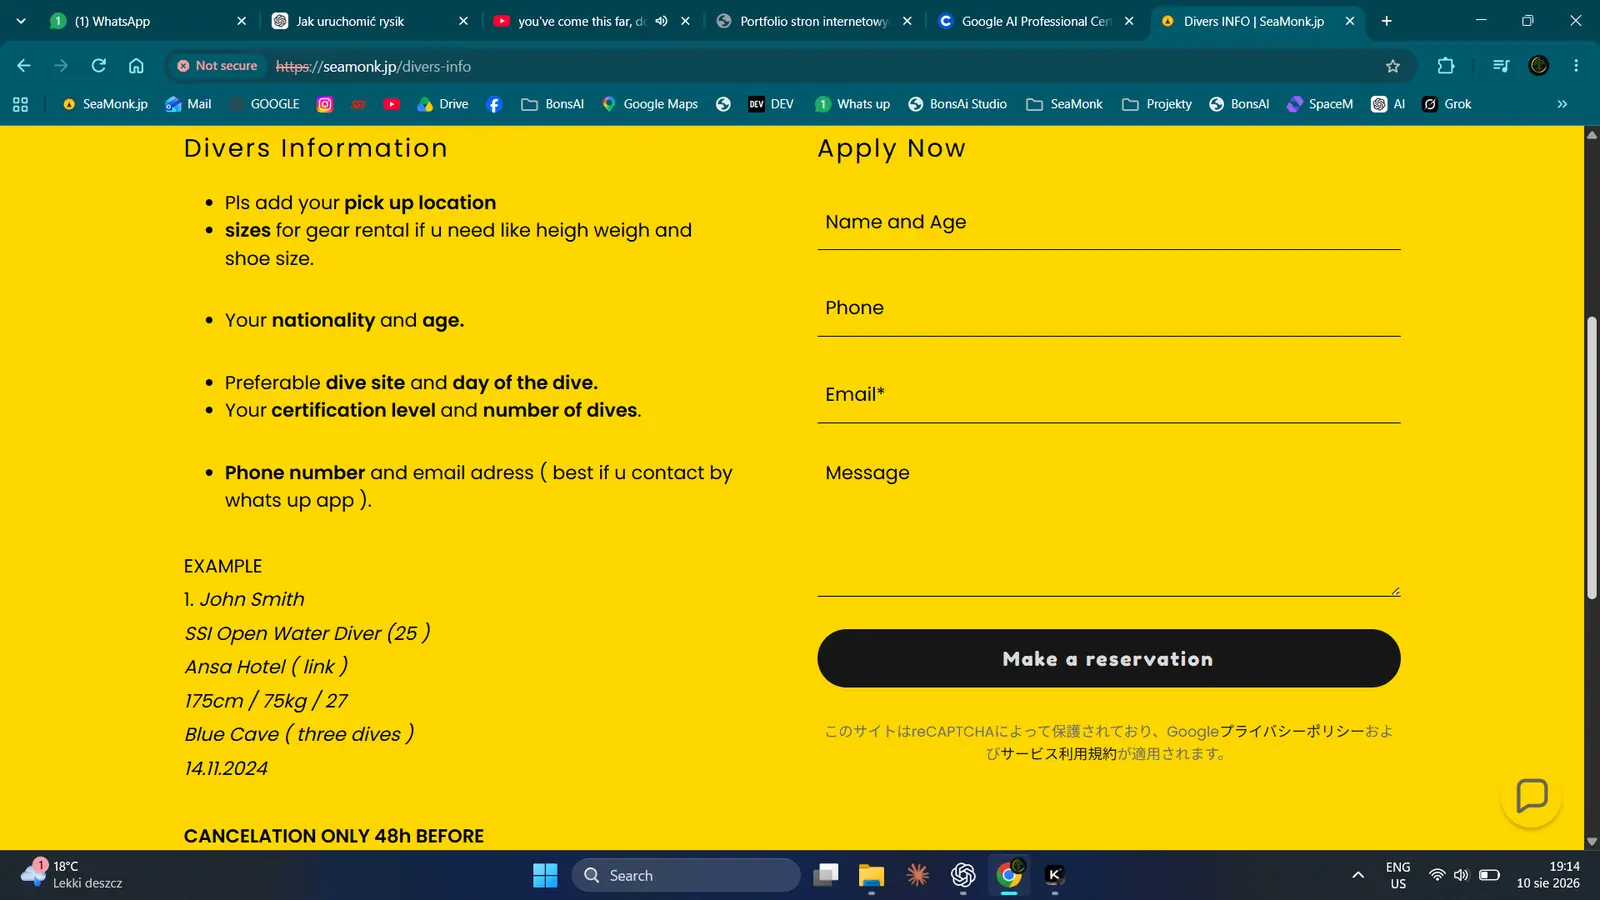
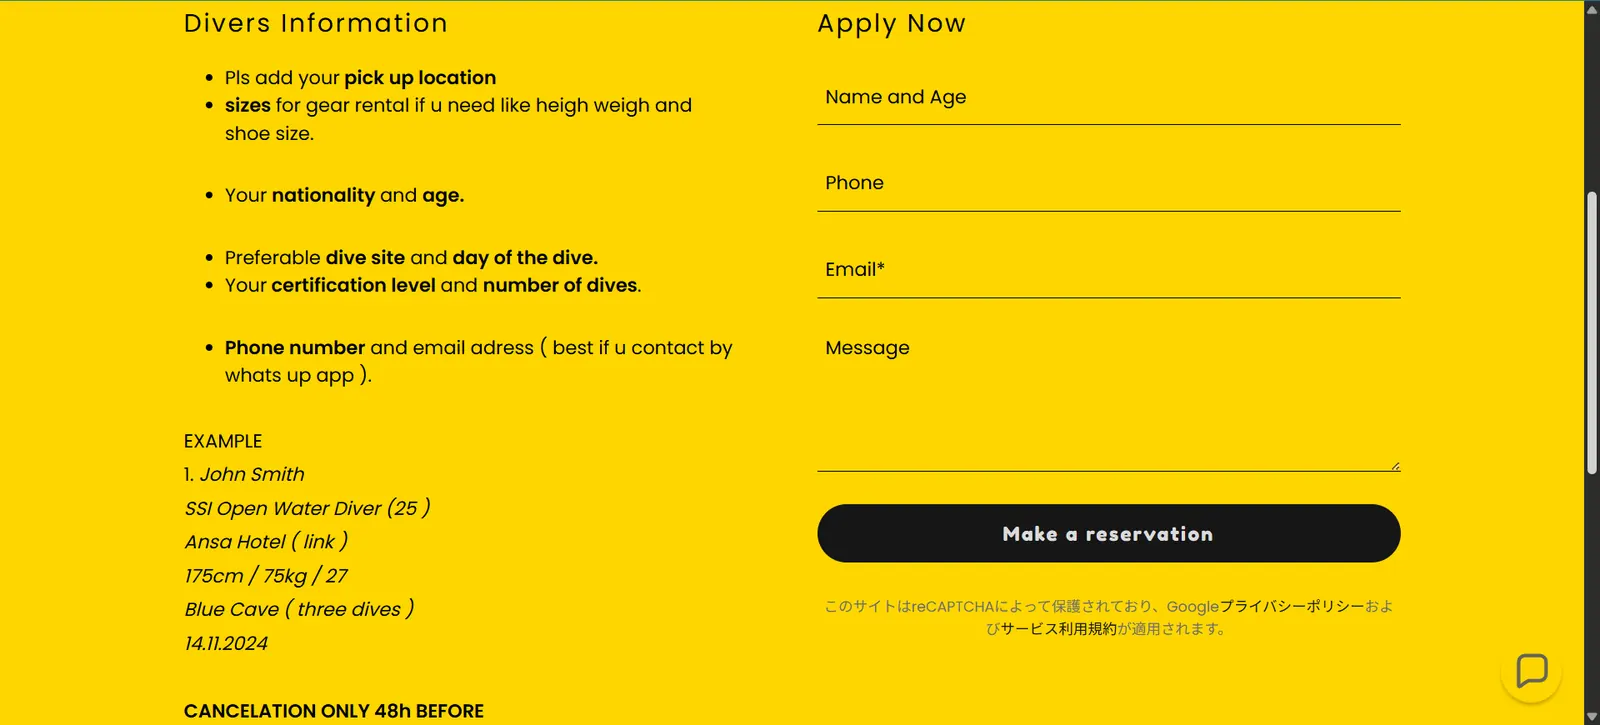
Polish SeaMonk gallery screenshots

diff --git a/seamonk.html b/seamonk.html
@@ -6,7 +6,7 @@
     <title>SeaMonk.jp — projekt strony | BonsAi Studio</title>
     <meta name="description" content="Projekt wielojęzycznej strony SeaMonk.jp dla szkoły nurkowania na Okinawie." />
     <link rel="canonical" href="https://itbonsai.pl/seamonk.html" />
-    <link rel="stylesheet" href="styles.css?v=site-15" />
+    <link rel="stylesheet" href="styles.css?v=site-16" />
   </head>
   <body>
     <header class="header">
@@ -36,10 +36,10 @@
           <p>Każdy ekran ma konkretne zadanie: pokazać atmosferę nurkowania, wyjaśnić ofertę i ułatwić bezpośredni kontakt.</p>
         </div>
         <div class="seamonk-gallery-grid">
-          <figure><img src="assets/seamonk-gallery-4.webp" alt="Strona główna SeaMonk.jp z zachodem słońca na Okinawie" width="1600" height="900" loading="lazy" /><figcaption>Silne pierwsze wrażenie i rozpoznawalna marka.</figcaption></figure>
-          <figure><img src="assets/seamonk-gallery-2.webp" alt="Oferta kursów nurkowych SeaMonk.jp przedstawiona w trzech czytelnych kolumnach" width="1600" height="900" loading="lazy" /><figcaption>Kursy i poziomy doświadczenia łatwe do porównania.</figcaption></figure>
-          <figure><img src="assets/seamonk-gallery-3.webp" alt="Oferta jednodniowych aktywności i snorkelingu na stronie SeaMonk.jp" width="1600" height="900" loading="lazy" /><figcaption>Różne aktywności opisane prostym językiem.</figcaption></figure>
-          <figure><img src="assets/seamonk-gallery-1.webp" alt="Formularz rezerwacji nurkowania na stronie SeaMonk.jp" width="1600" height="900" loading="lazy" /><figcaption>Informacje i rezerwacja połączone w jednym miejscu.</figcaption></figure>
+          <figure><img src="assets/seamonk-gallery-4.webp?v=clean-1" alt="Strona główna SeaMonk.jp z zachodem słońca na Okinawie" width="1600" height="725" loading="lazy" /><figcaption>Silne pierwsze wrażenie i rozpoznawalna marka.</figcaption></figure>
+          <figure><img src="assets/seamonk-gallery-2.webp?v=clean-1" alt="Oferta kursów nurkowych SeaMonk.jp przedstawiona w trzech czytelnych kolumnach" width="1600" height="725" loading="lazy" /><figcaption>Kursy i poziomy doświadczenia łatwe do porównania.</figcaption></figure>
+          <figure><img src="assets/seamonk-gallery-3.webp?v=clean-1" alt="Oferta jednodniowych aktywności i snorkelingu na stronie SeaMonk.jp" width="1600" height="725" loading="lazy" /><figcaption>Różne aktywności opisane prostym językiem.</figcaption></figure>
+          <figure><img src="assets/seamonk-gallery-1.webp?v=clean-1" alt="Formularz rezerwacji nurkowania na stronie SeaMonk.jp" width="1600" height="725" loading="lazy" /><figcaption>Informacje i rezerwacja połączone w jednym miejscu.</figcaption></figure>
         </div>
       </section>
       <section class="seamonk-value" aria-labelledby="seamonk-value-title">

diff --git a/realizacje.html b/realizacje.html
@@ -6,7 +6,7 @@
     <title>Portfolio stron internetowych | BonsAi Studio</title>
     <meta name="description" content="Portfolio BonsAi Studio: SeaMonk.jp, Ocean, Morscy Wojownicy, Mori Retreat, automatyzacja firmy i Cafe App." />
     <link rel="canonical" href="https://itbonsai.pl/realizacje.html" />
-    <link rel="stylesheet" href="styles.css?v=site-15" />
+    <link rel="stylesheet" href="styles.css?v=site-16" />
     <script async src="https://www.googletagmanager.com/gtag/js?id=G-SPBZV7WDPN"></script>
     <script>
       window.dataLayer = window.dataLayer || [];

diff --git a/o-nas.html b/o-nas.html
@@ -9,7 +9,7 @@
       content="Poznaj BonsAi Studio i Jakuba Mierosławskiego — twórcę stron, aplikacji oraz automatyzacji z praktycznym doświadczeniem biznesowym w Polsce i Japonii."
     />
     <link rel="canonical" href="https://itbonsai.pl/o-nas.html" />
-    <link rel="stylesheet" href="styles.css?v=site-15" />
+    <link rel="stylesheet" href="styles.css?v=site-16" />
     <script
       async
       src="https://www.googletagmanager.com/gtag/js?id=G-SPBZV7WDPN"

diff --git a/cennik.html b/cennik.html
@@ -9,7 +9,7 @@
       content="Orientacyjny cennik stron internetowych, aplikacji i automatyzacji. Jasne zasady płatności, poprawki, czas, hosting i wsparcie."
     />
     <link rel="canonical" href="https://itbonsai.pl/cennik.html" />
-    <link rel="stylesheet" href="styles.css?v=site-15" />
+    <link rel="stylesheet" href="styles.css?v=site-16" />
     <script
       async
       src="https://www.googletagmanager.com/gtag/js?id=G-SPBZV7WDPN"

diff --git a/aplikacje-dla-firm.html b/aplikacje-dla-firm.html
@@ -9,7 +9,7 @@
       content="Projektowanie i tworzenie aplikacji webowych, paneli, systemów rezerwacji oraz narzędzi wewnętrznych dla firm."
     />
     <link rel="canonical" href="https://itbonsai.pl/aplikacje-dla-firm.html" />
-    <link rel="stylesheet" href="styles.css?v=site-15" />
+    <link rel="stylesheet" href="styles.css?v=site-16" />
     <script
       async
       src="https://www.googletagmanager.com/gtag/js?id=G-SPBZV7WDPN"

diff --git a/seo-techniczne.html b/seo-techniczne.html
@@ -9,7 +9,7 @@
       content="SEO techniczne: indeksowanie, szybkość, struktura, dane uporządkowane i mobilna użyteczność strony firmowej."
     />
     <link rel="canonical" href="https://itbonsai.pl/seo-techniczne.html" />
-    <link rel="stylesheet" href="styles.css?v=site-15" />
+    <link rel="stylesheet" href="styles.css?v=site-16" />
     <script
       async
       src="https://www.googletagmanager.com/gtag/js?id=G-SPBZV7WDPN"

diff --git a/cafe-app.html b/cafe-app.html
@@ -6,7 +6,7 @@
     <title>Cafe App — projekt aplikacji | BonsAi Studio</title>
     <meta name="description" content="Projekt mobilnej aplikacji Cafe App dla firmy gastronomicznej." />
     <link rel="canonical" href="https://itbonsai.pl/cafe-app.html" />
-    <link rel="stylesheet" href="styles.css?v=site-15" />
+    <link rel="stylesheet" href="styles.css?v=site-16" />
   </head>
   <body>
     <header class="header">

diff --git a/uslugi.html b/uslugi.html
@@ -9,7 +9,7 @@
       content="Strony internetowe, aplikacje, SEO, automatyzacje AI i branding cyfrowy dla małych i średnich firm."
     />
     <link rel="canonical" href="https://itbonsai.pl/uslugi.html" />
-    <link rel="stylesheet" href="styles.css?v=site-15" />
+    <link rel="stylesheet" href="styles.css?v=site-16" />
     <script
       async
       src="https://www.googletagmanager.com/gtag/js?id=G-SPBZV7WDPN"

diff --git a/dziekujemy.html b/dziekujemy.html
@@ -5,7 +5,7 @@
     <meta name="viewport" content="width=device-width,initial-scale=1" />
     <meta name="robots" content="noindex,follow" />
     <title>Dziękujemy za wiadomość | BonsAi Studio</title>
-    <link rel="stylesheet" href="styles.css?v=site-15" />
+    <link rel="stylesheet" href="styles.css?v=site-16" />
     <script
       async
       src="https://www.googletagmanager.com/gtag/js?id=G-SPBZV7WDPN"

diff --git a/strony-internetowe-dla-firm.html b/strony-internetowe-dla-firm.html
@@ -12,7 +12,7 @@
       rel="canonical"
       href="https://itbonsai.pl/strony-internetowe-dla-firm.html"
     />
-    <link rel="stylesheet" href="styles.css?v=site-15" />
+    <link rel="stylesheet" href="styles.css?v=site-16" />
     <script
       async
       src="https://www.googletagmanager.com/gtag/js?id=G-SPBZV7WDPN"

diff --git a/automatyzacje-ai-dla-firm.html b/automatyzacje-ai-dla-firm.html
@@ -12,7 +12,7 @@
       rel="canonical"
       href="https://itbonsai.pl/automatyzacje-ai-dla-firm.html"
     />
-    <link rel="stylesheet" href="styles.css?v=site-15" />
+    <link rel="stylesheet" href="styles.css?v=site-16" />
     <script
       async
       src="https://www.googletagmanager.com/gtag/js?id=G-SPBZV7WDPN"

diff --git a/koszt-strony-internetowej.html b/koszt-strony-internetowej.html
@@ -12,7 +12,7 @@
       rel="canonical"
       href="https://itbonsai.pl/koszt-strony-internetowej.html"
     />
-    <link rel="stylesheet" href="styles.css?v=site-15" />
+    <link rel="stylesheet" href="styles.css?v=site-16" />
     <script
       async
       src="https://www.googletagmanager.com/gtag/js?id=G-SPBZV7WDPN"
